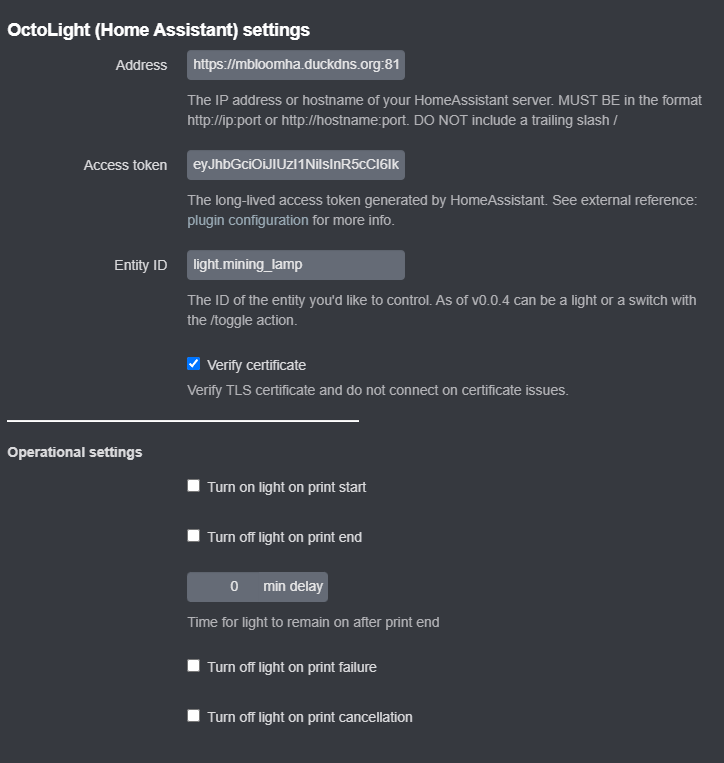
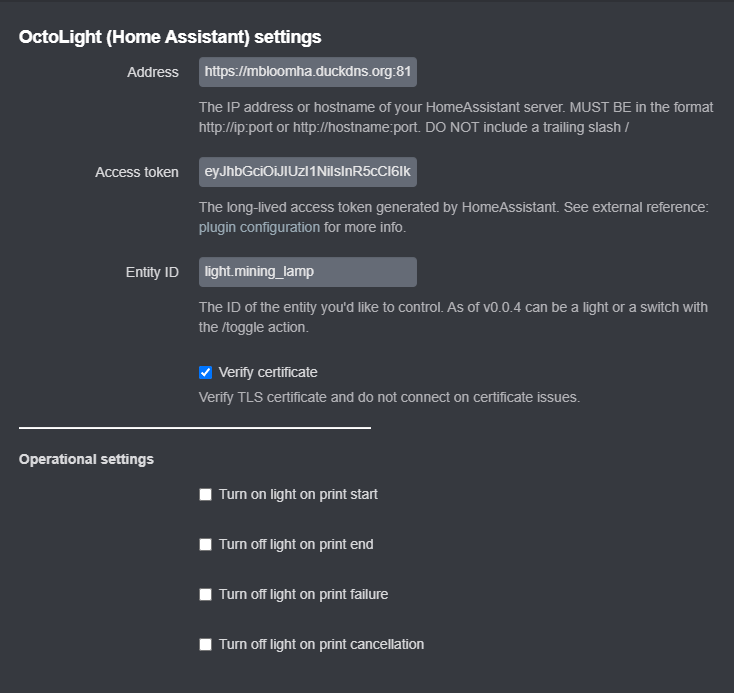
REVERT to 0.0.4

diff --git a/octoprint_octolightHA/__init__.py b/octoprint_octolightHA/__init__.py
@@ -9,9 +9,6 @@ import traceback
 # HomeAssistant Compatibility
 import requests
 
-# Timer for timeout after finish
-from octoprint.util import ResettableTimer
-
 class OctoLightHAPlugin(
         octoprint.plugin.AssetPlugin,
         octoprint.plugin.StartupPlugin,
@@ -27,7 +24,6 @@ class OctoLightHAPlugin(
     def __init__(self):
         self.config = dict()
         self.isLightOn = False
-        self._idleTimer = None
 
     ### REMOVE SETTINGS IF UPLOADED ###
     def get_settings_defaults(self):
@@ -38,7 +34,6 @@ class OctoLightHAPlugin(
             verify_certificate = False,
             turnOnPrintStart = False,
             turnOffPrintEnd = False,
-            turnOffPrintDelay = 0,
             turnOffPrintFailure = False,
             turnOffPrintCancellation = False
         )
@@ -236,43 +231,22 @@ class OctoLightHAPlugin(
             self._plugin_manager.send_plugin_message(self._identifier, dict(isLightOn=self.light_state))
             return
         elif event == Events.PRINT_STARTED and self.config['turnOnPrintStart']:
-            self.stop_idle_timer()
             if not self.light_state:
                 self.light_state = self.light_toggle()
                 self._logger.debug("PRINT_STARTED: Light state changed.")
             return
-        elif (event == Events.PRINT_DONE and self.config['turnOffPrintEnd']):
-            if self.light_state:
-                self.start_idle_timer()
-                self._logger.debug("PRINT_DONE_TIMER_STARTED: Resettable Timer set.")
-            return
-        elif (event == Events.PRINT_FAILED and self.config['turnOffPrintFailure']) or (event == Events.PRINT_CANCELLED and self.config['turnOffPrintCancellation']):
+        elif (event == Events.PRINT_DONE and self.config['turnOffPrintEnd']) or (event == Events.PRINT_FAILED and self.config['turnOffPrintFailure']) or (event == Events.PRINT_CANCELLED and self.config['turnOffPrintCancellation']):
             if self.light_state:
                 self.light_state = self.light_toggle()
                 self._logger.debug("PRINT_DONE: Light state changed.")
-            return  
+            return
         
-    def start_idle_timer(self):
-        self.stop_idle_timer()
-        self._idleTimer = ResettableTimer(self.config['turnOffPrintDelay'] * 60 + 1, self.idle_poweroff)
-        self._idleTimer.start()
 
-    def stop_idle_timer(self):
-        if self._idleTimer:
-            self._idleTimer.cancel()
-            self._idleTimer = None
-
-    def idle_poweroff(self):
-        if self.light_state:
-            self.light_state = self.light_toggle()
-            self._logger.debug("PRINT_TIMER_COMPLETE: Light state changed.")
-        return
-    
     def on_settings_save(self, data):
         octoprint.plugin.SettingsPlugin.on_settings_save(self, data)
         self.reload_settings()
 
-    def get_update_information(self):    
+    def get_update_information(self):
         return dict(
             octolightHA=dict(
                 displayName="OctoLightHA",
@@ -281,25 +255,19 @@ class OctoLightHAPlugin(
                 type="github_release",
                 current=self._plugin_version,
 
-                user="mark-bloom",
+                user="mark.bloom",
                 repo="OctoLightHA",
-                pip="https://github.com/mark-bloom/OctoLight_Home-Assistant/archive/{target_version}.zip"
+                pip="https://github.com/mark-bloom/OctoLight_Home-Assistant/archive/{target}.zip"
             )
         )
 
     def register_custom_events(self):
         return ["light_state_changed"]
 
-__plugin_name__ = "OctoLight Home Assistant"
 __plugin_pythoncompat__ = ">=2.7,<4"
 __plugin_implementation__ = OctoLightHAPlugin()
 
-def __plugin_load__():
-    global __plugin_implementation__
-    __plugin_implementation__ = OctoLightHAPlugin()
-
-    global __plugin_hooks__
-    __plugin_hooks__ = {
-        "octoprint.plugin.softwareupdate.check_config":
-            __plugin_implementation__.get_update_information
-    }
+__plugin_hooks__ = {
+    "octoprint.plugin.softwareupdate.check_config":
+    __plugin_implementation__.get_update_information
+}

diff --git a/setup.py b/setup.py
@@ -14,7 +14,7 @@ plugin_package = "octoprint_octolightHA"
 plugin_name = "OctoLight Home Assistant"
 
 # The plugin's version. Can be overwritten within OctoPrint's internal data via __plugin_version__ in the plugin module
-plugin_version = "0.1.4"
+plugin_version = "0.1.6"
 
 # The plugin's description. Can be overwritten within OctoPrint's internal data via __plugin_description__ in the plugin
 # module

diff --git a/README.md b/README.md
@@ -3,7 +3,7 @@ A simple plugin that adds a button to the navigation bar for toggling a HomeAssi
 
 Code forked from [OctoLight by gigibu5](https://github.com/gigibu5/OctoLight) with HA integration based on [OctoPrint-PSUControl by kantlivelong](https://github.com/kantlivelong/OctoPrint-PSUControl)
 
-![WebUI interface](img/screenshot.png)
+![WebUI interface](img/screenshoot.png)
 
 ## Setup
 Install via the bundled [Plugin Manager](https://docs.octoprint.org/en/master/bundledplugins/pluginmanager.html) or manually using this URL:
@@ -24,12 +24,10 @@ Curently, you can configure 8 settings, including 4 configuration items:
 
 - `Verify certificate`: Toggle on to verify TLS certificate and not connect on certificate issues (keep disabled if using http on local network).
 
-### Operational settings [as of v0.5]
+### Operational settings [to be introduced in v0.4]
 - `Turn on light on print start`: Turn on the light when OctoPrint receives a "print started" message.
 
 - `Turn off light on print end`: Turn off the light when OctoPrint receives a "print complete" message.
-
-- `Turn off delay`: How long (in minutes) to wait before turning off the light when OctoPrint receives a "print complete" message.
 
 - `Turn off light on print failure`: Turn off the light when OctoPrint receives a "print failure" message.
 
@@ -52,9 +50,6 @@ _(if the action parameter not given, the action toggle will be used by default)_
 
 ## TO DO
 - [x] Update interface if Light is turned on or off
-- [x] Turn off on finish print (thank you [Nick-Gatti](https://github.com/Nick-Gatti/OctoLight_Home-Assistant/tree/master))
-- [x] Add delay before light turns off after completing print.
 
-Maybe in the future:
-- [ ] Add light settings (e.g. brightness and colour) for turn on
-- [ ] Add options for light-off delay to apply to print failure and cancellation (possibly individual values)
+Maybe in the distant future:
+- [ ] Turn off on finish print
